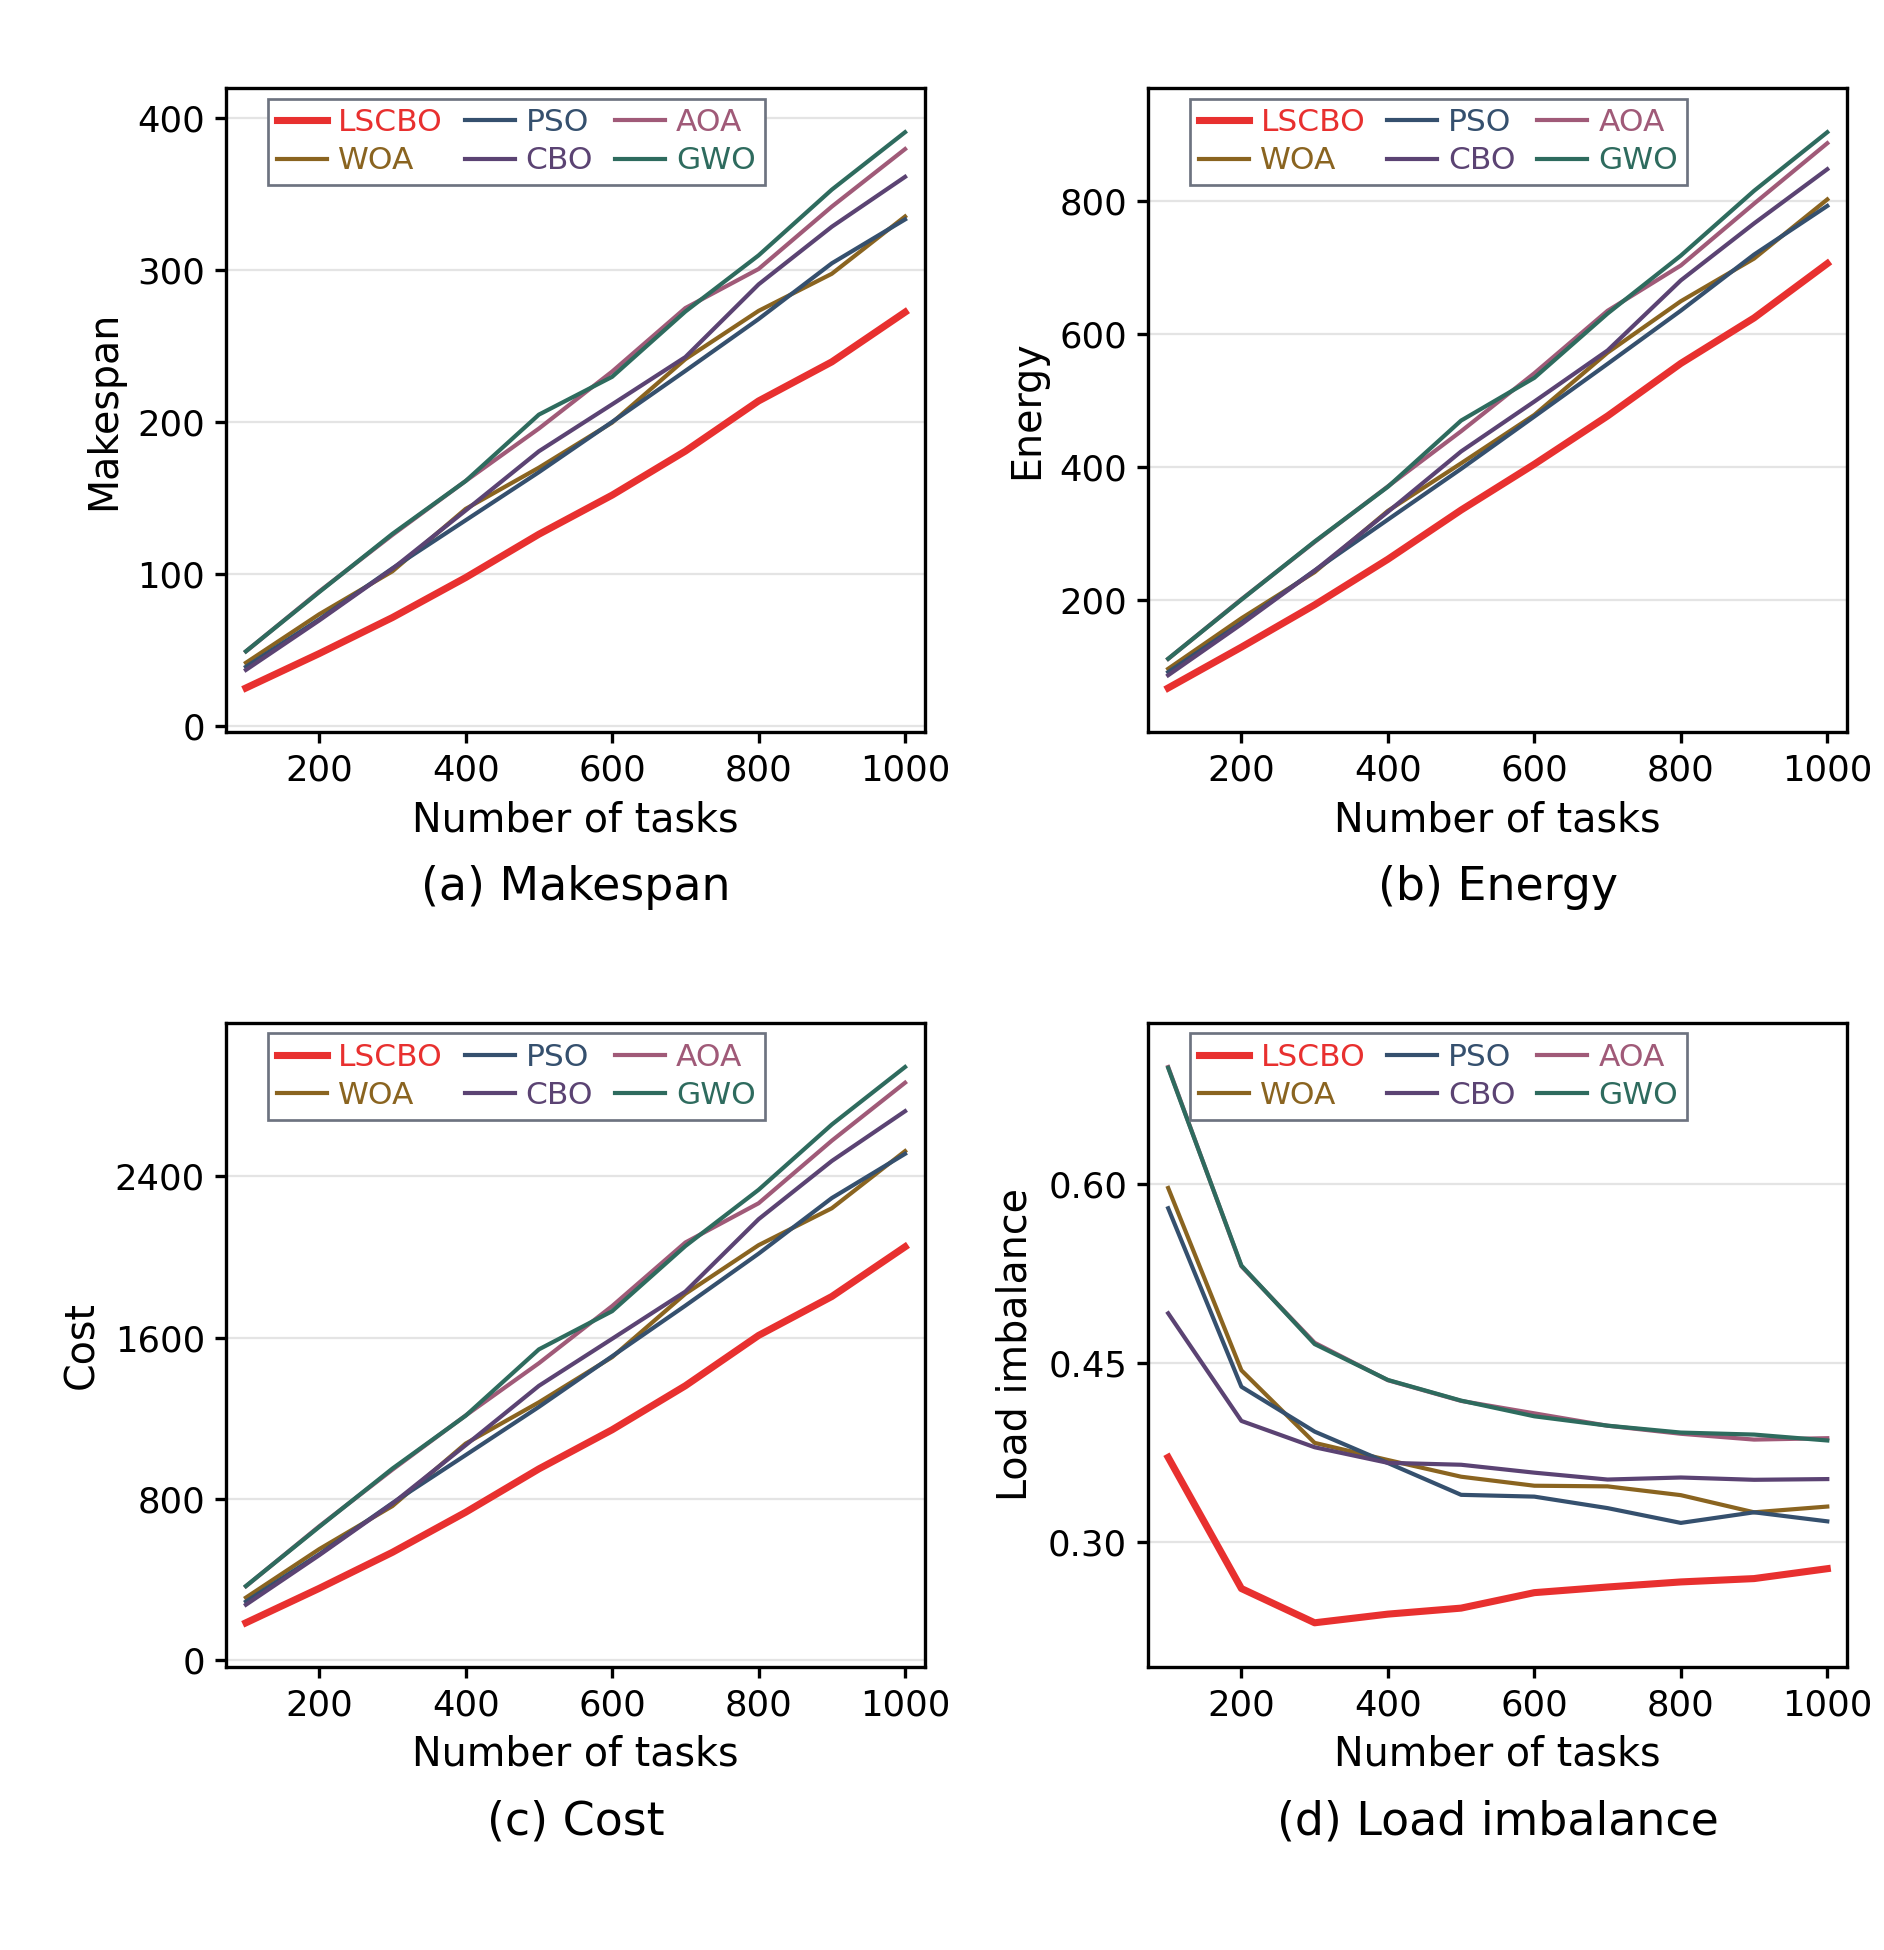
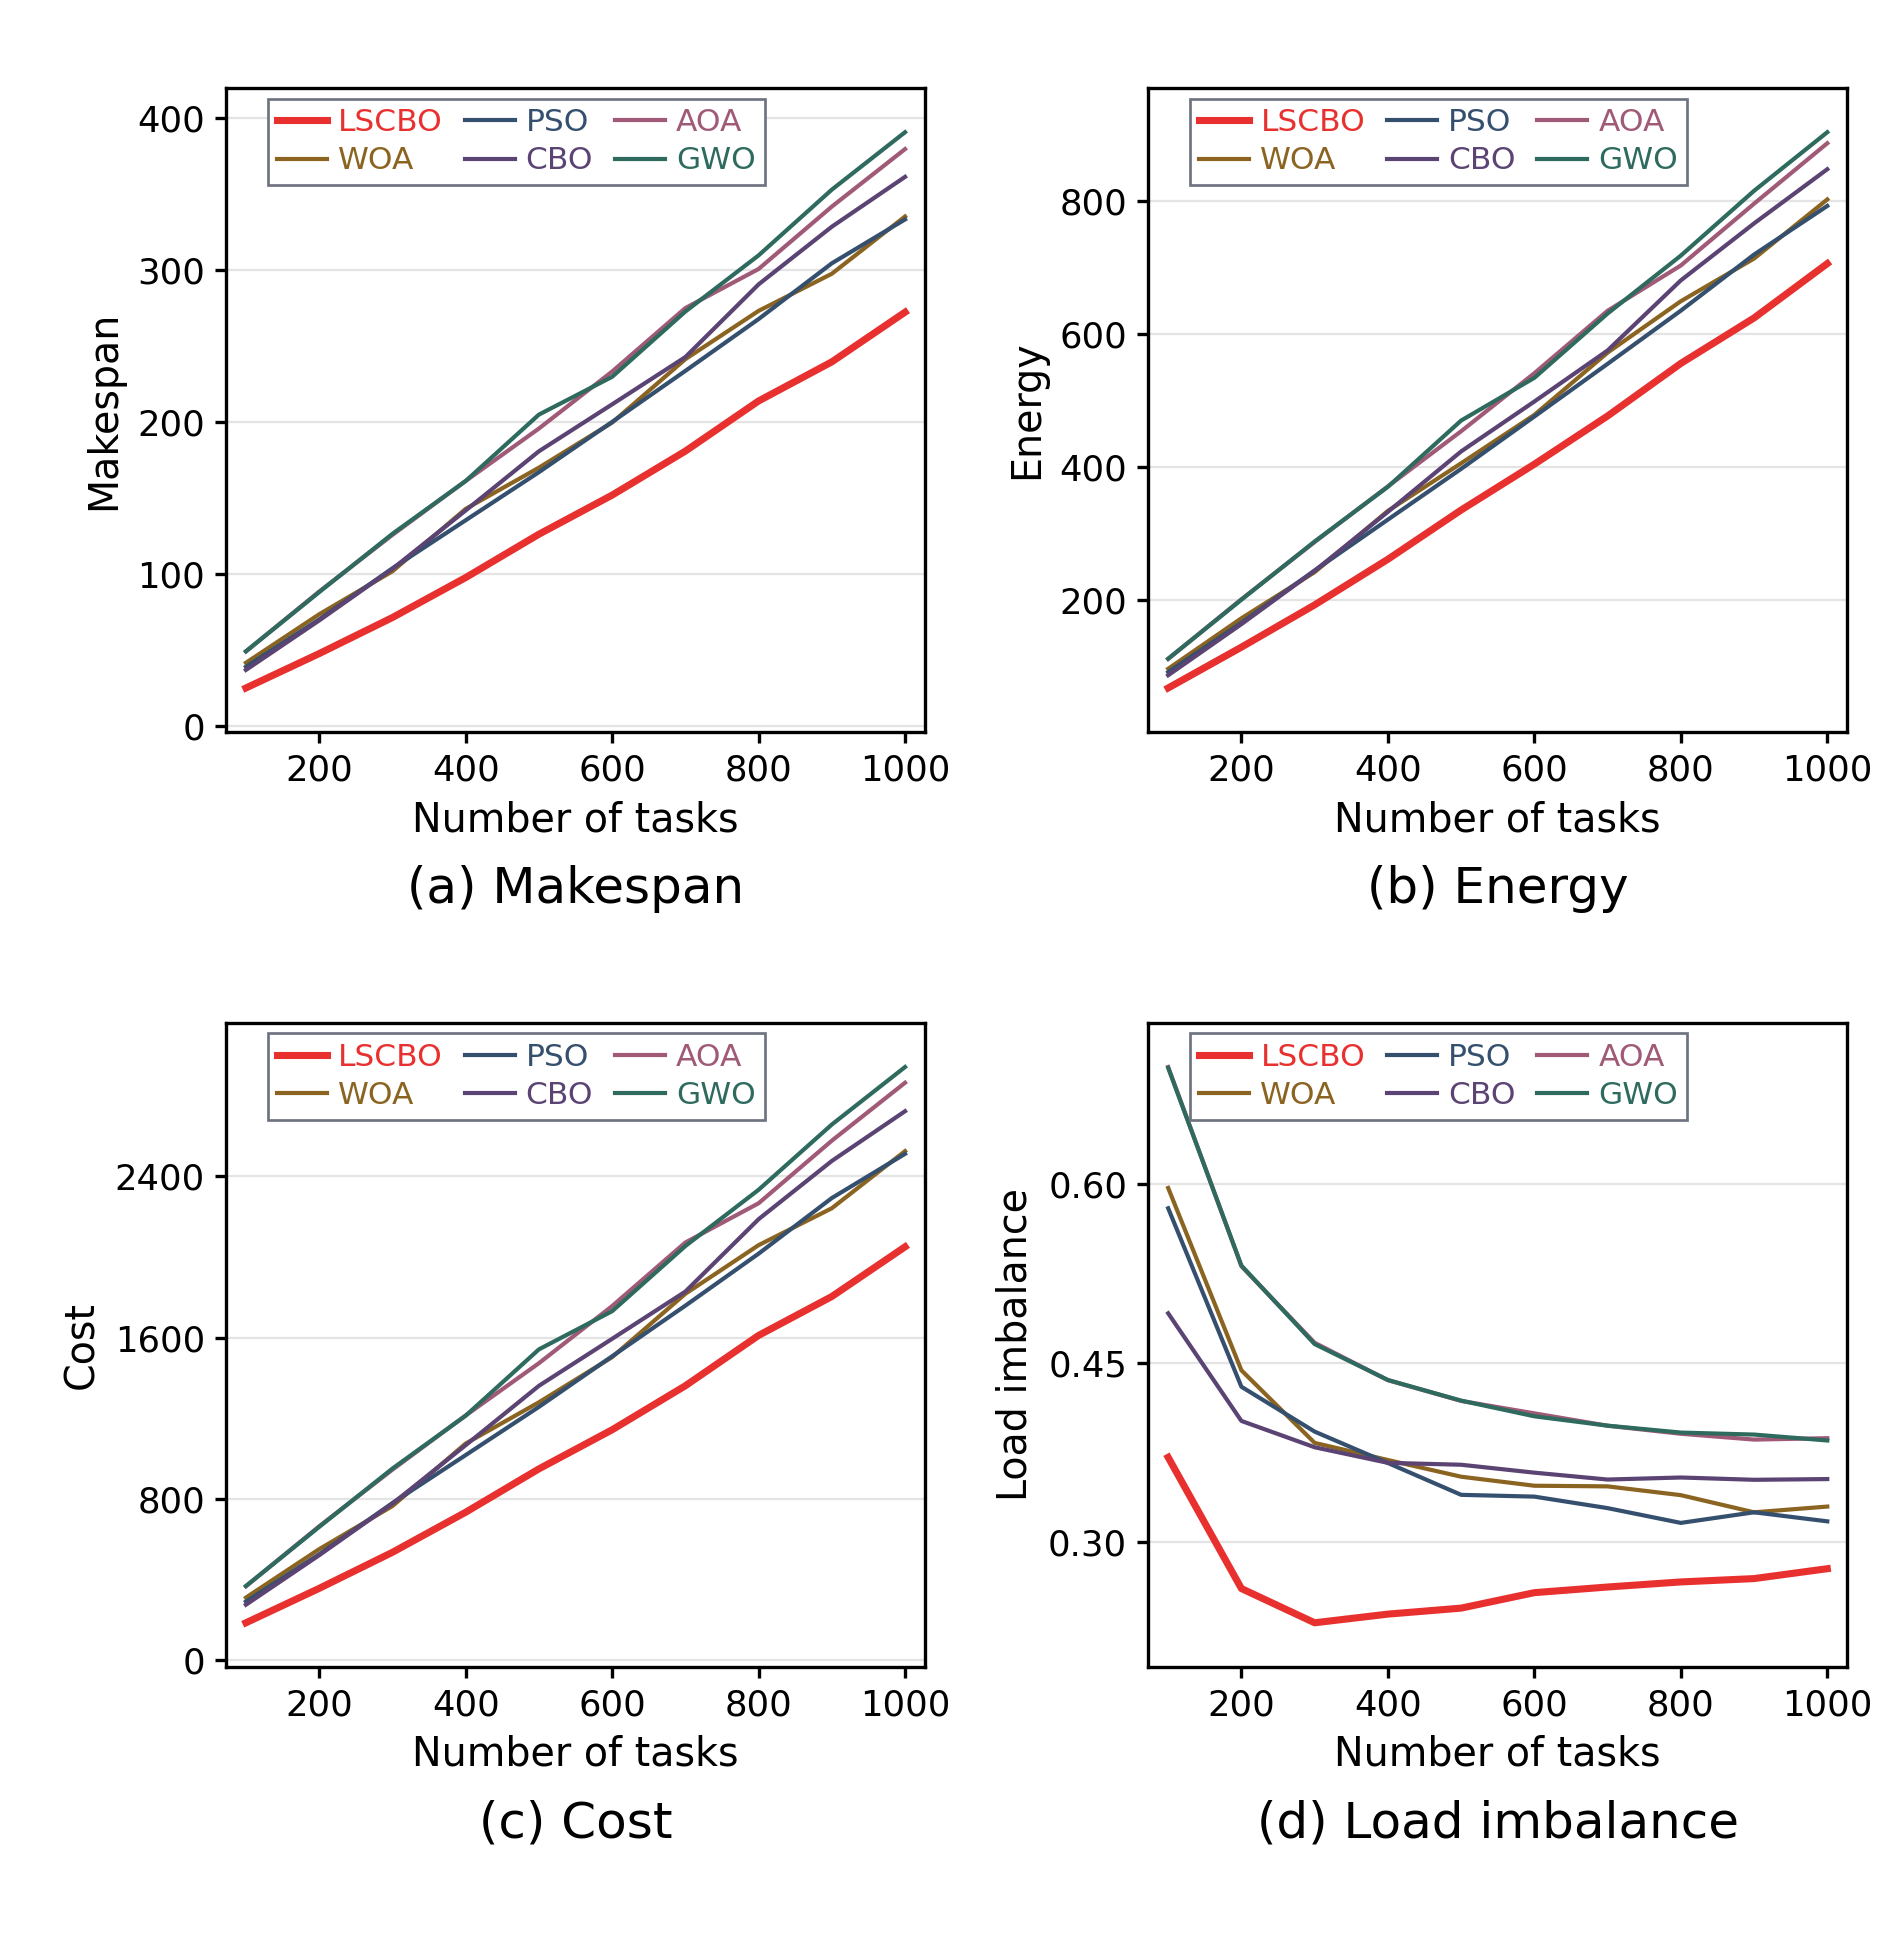
Increase Fig7 panel caption font size to 12 pt

diff --git a/实验代码/CloudSim程序/scripts/plot_fig6_fig7.py b/实验代码/CloudSim程序/scripts/plot_fig6_fig7.py
@@ -155,7 +155,7 @@ def subcaptions(fig, axes, titles, columns):
             box = ax.get_position()
             caption = fig.text((box.x0 + box.x1) / 2, y,
                                titles[first + offset], ha="center", va="top",
-                               fontsize=11.0)
+                               fontsize=12.0)
             panels.append((ax, caption))
     return panels
 
@@ -178,6 +178,7 @@ def save_figure(fig, name, panels):
         assert axis_box[0] <= legend_box[0] < legend_box[2] <= axis_box[2]
         assert axis_box[1] <= legend_box[1] < legend_box[3] <= axis_box[3]
         records.append({"title": caption.get_text() if caption is not None else None,
+                        "caption_fontsize_pt": caption.get_fontsize() if caption is not None else None,
                         "ylabel": ax.get_ylabel(),
                         "axis_label_fontsize_pt": ax.yaxis.label.get_fontsize(),
                         "tick_label_fontsize_pt": ax.get_xticklabels()[0].get_fontsize(),

diff --git a/实验代码/CloudSim程序/scripts/figure_audit.py b/实验代码/CloudSim程序/scripts/figure_audit.py
@@ -54,6 +54,7 @@ def verify_figures():
             if name=='Fig6':
                 assert box is None and panel['title'] is None
             else:
+                assert panel['caption_fontsize_pt']==12.
                 assert abs((box[0]+box[2])/2-panel['panel_center_x_pt'])<1e-4
                 # The caption is below the axes in bottom-origin coordinates.
                 assert box[3] < float(doc[0].rect.height)-panel['panel_bottom_from_top_pt']
